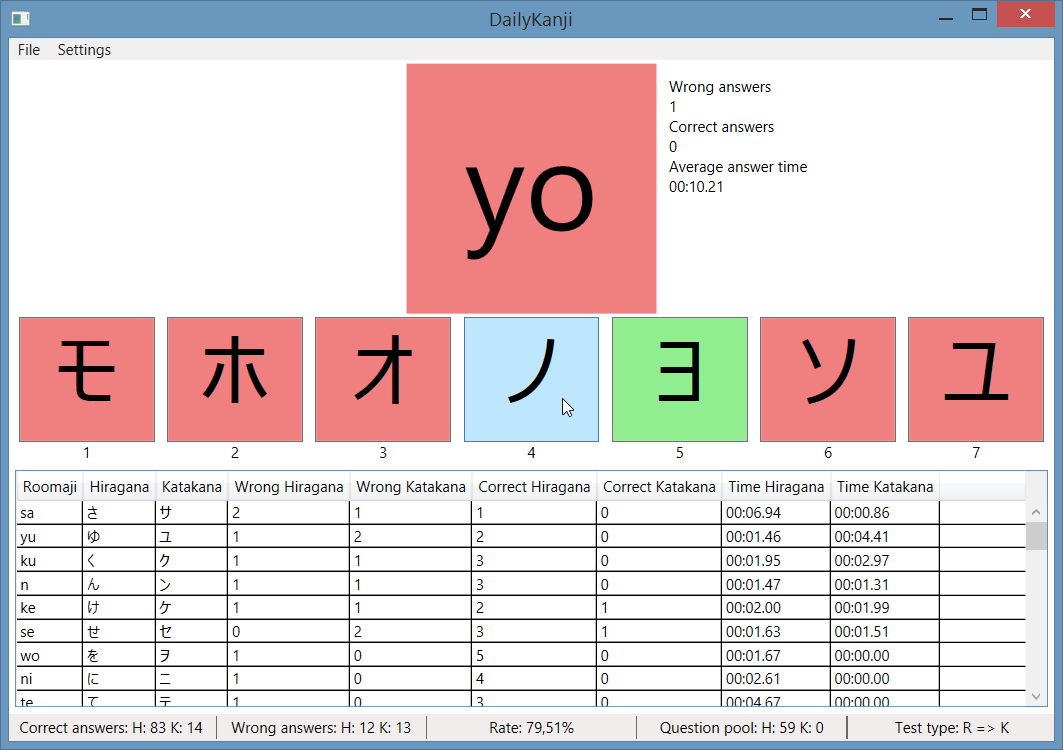
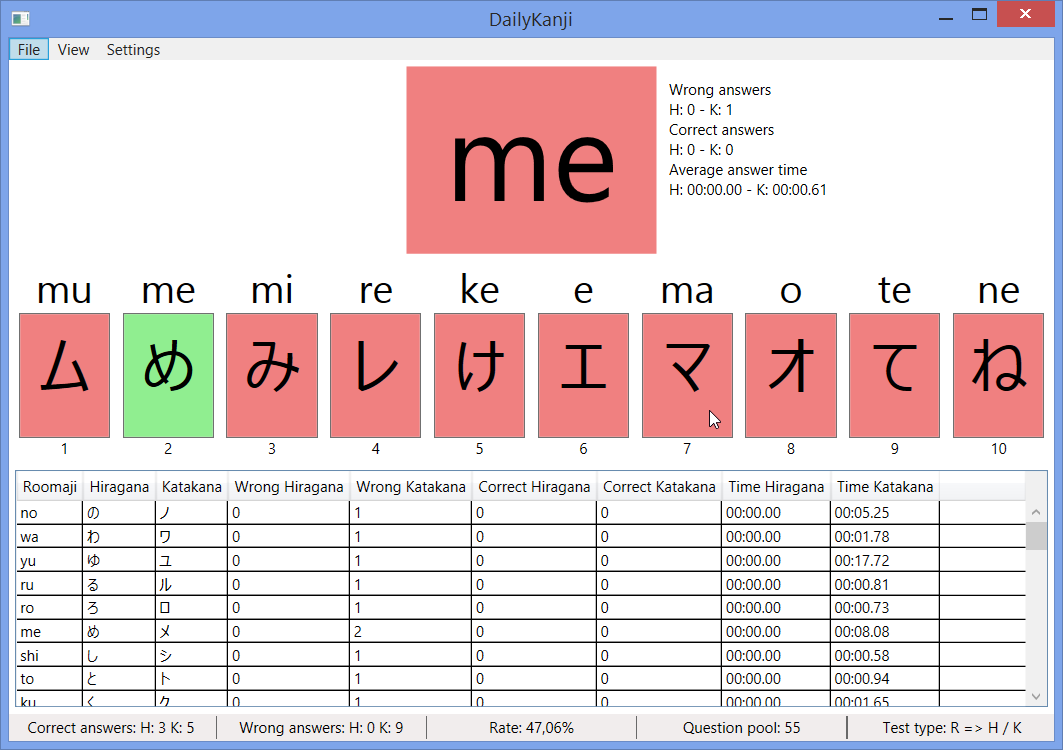
Add menu entry to show/hide hints on wrong answers and update pictures

diff --git a/DailyKanji/Mvvm/View/MainWindow.xaml b/DailyKanji/Mvvm/View/MainWindow.xaml
@@ -64,6 +64,12 @@
 
             </MenuItem>
 
+            <MenuItem Header="View">
+
+                <MenuItem Command="{Binding Path=ChangeHintVisibility}" Header="Show hints on wrong answers" IsChecked="{Binding Path=Model.ShowHints}" />
+
+            </MenuItem>
+
             <MenuItem Header="Settings">
 
                 <MenuItem Header="Test type">

diff --git a/DailyKanji/Mvvm/ViewModel/MainViewModelCommands.cs b/DailyKanji/Mvvm/ViewModel/MainViewModelCommands.cs
@@ -15,43 +15,50 @@ namespace DailyKanji.Mvvm.ViewModel
         public ICommand CloseProgram
             => new CommandHelper(() => _mainWindow.Close());
 
+        public ICommand ChangeHintVisibility
+            => new CommandHelper(() => Model.ShowHints = !Model.ShowHints);
+
         public ICommand ChangeTestType
-            => new CommandHelper((testType) =>
-            {
-                Model.MainTestType = testType != null ? (TestType)Convert.ToInt32(testType) : TestType.HiraganaOrKatakanaToRoomaji;
-                CreateNewTest();
-            });
+            => new CommandHelper((testType)
+                =>
+                {
+                    Model.MainTestType = testType != null ? (TestType)Convert.ToInt32(testType) : TestType.HiraganaOrKatakanaToRoomaji;
+                    CreateNewTest();
+                });
 
         public ICommand ChangeErrorTimeout
             => new CommandHelper((timeout) => Model.ErrorTimeout = Convert.ToInt32(timeout));
 
         public ICommand ChangeAnswerCount
-            => new CommandHelper((value) =>
-            {
-                Model.MaximumAnswer = Convert.ToByte(value);
-                ChooseNewPossibleAnswers();
-                BuildAnswerButtons();
-            });
+            => new CommandHelper((value)
+                =>
+                {
+                    Model.MaximumAnswer = Convert.ToByte(value);
+                    ChooseNewPossibleAnswers();
+                    BuildAnswerButtons();
+                });
 
         public ICommand ChangeAnswerMode
-            => new CommandHelper(() =>
-            {
-                ChooseNewPossibleAnswers();
-                BuildAnswerButtons();
-            });
+            => new CommandHelper(()
+                =>
+                {
+                    ChooseNewPossibleAnswers();
+                    BuildAnswerButtons();
+                });
 
         public ICommand AnswerTest
             => new CommandHelper((parameter) => CheckAnswer(parameter as TestBaseModel));
 
         public ICommand AnswerNumber
-            => new CommandHelper((parameter) =>
-            {
-                if(!int.TryParse(parameter.ToString(), out var answerNumber))
+            => new CommandHelper((parameter)
+                =>
                 {
-                    return;
-                }
+                    if(!int.TryParse(parameter.ToString(), out var answerNumber))
+                    {
+                        return;
+                    }
 
-                CheckAnswer(Model.PossibleAnswers.ElementAtOrDefault(answerNumber - 1));
-            });
+                    CheckAnswer(Model.PossibleAnswers.ElementAtOrDefault(answerNumber - 1));
+                });
     }
 }

diff --git a/DailyKanji/Mvvm/ViewModel/MainViewModel.cs b/DailyKanji/Mvvm/ViewModel/MainViewModel.cs
@@ -18,7 +18,6 @@ namespace DailyKanji.Mvvm.ViewModel
     // TODO: Add test type for "Hiragana or Katakana to Katakana or Hiragana"
     // TODO: Add test type for all -> "Hiragana, Katakana or Roomaji to Hiragana, Katakana or Roomaji"
     // TODO: Add menu entry to reset the statistics
-    // TODO: Add menu entry to deactivate hints
     // TODO: Add new answers sub-menu (show current answer inside menu entry with shortcut)
     // TODO: Recalculate buttons (button width), when window is resized
     // TODO: Visible timer in 0.1 second (can be deactivated via menu)
@@ -385,7 +384,10 @@ namespace DailyKanji.Mvvm.ViewModel
                                             ? Colors.LightGreen
                                             : Colors.LightCoral);
 
-                Model.HintTextColor[answerNumber] = new SolidColorBrush(Colors.Black);
+                if(Model.ShowHints)
+                {
+                    Model.HintTextColor[answerNumber] = new SolidColorBrush(Colors.Black);
+                }
             }
         }
 
@@ -399,7 +401,7 @@ namespace DailyKanji.Mvvm.ViewModel
             for(var answerNumber = 0; answerNumber < 10; answerNumber++)
             {
                 Model.AnswerButtonColor[answerNumber] = new SolidColorBrush(Colors.Transparent);
-                Model.HintTextColor[answerNumber] = new SolidColorBrush(Colors.Transparent);
+                Model.HintTextColor[answerNumber]     = new SolidColorBrush(Colors.Transparent);
             }
         }
 

diff --git a/DailyKanji/Mvvm/Model/MainModel.cs b/DailyKanji/Mvvm/Model/MainModel.cs
@@ -160,6 +160,19 @@ namespace DailyKanji.Mvvm.Model
             }
         }
 
+        /// <summary>
+        /// Indicate that hints on wrong answers will be shown
+        /// </summary>
+        public bool ShowHints
+        {
+            get => _showHints;
+            set
+            {
+                _showHints = value;
+                OnPropertyChanged();
+            }
+        }
+
         [JsonIgnore]
         public string WrongAnswerCountString
             => $"H: {AllTestsList.Sum(found => found.WrongHiraganaCount)}"
@@ -399,6 +412,11 @@ namespace DailyKanji.Mvvm.Model
         /// </summary>
         private ICollection<TestBaseModel> _allTestsList;
 
+        /// <summary>
+        /// Backing-field for <see cref="ShowHints"/>
+        /// </summary>
+        private bool _showHints;
+
         #endregion Private Backing-Fields
 
         #region Public Constructors
@@ -406,8 +424,11 @@ namespace DailyKanji.Mvvm.Model
         public MainModel()
         {
             MainTestType   = TestType.HiraganaOrKatakanaToRoomaji;
-            ErrorTimeout   = 1_500;
+
             MaximumAnswer  = 5;
+            ErrorTimeout   = 3_000;
+
+            ShowHints      = true;
             SimilarAnswers = true;
         }
 

diff --git a/readme.md b/readme.md
@@ -11,7 +11,7 @@ in development
   * Roomaji to Hiragana or Katakana, Only Roomaji to Hiragana, Only Roomaji to Katakana
   * Only Hiragana to Katakana, Only Katakana to Hiragana
 * Highlight wrong and correct answers, when answer was wrong
-* Show hint (based on selected test type) of all possible answers, when answer was wrong
+* Show hint of all possible answers, when answer was wrong (can be deactivated via menu)
 * Count answer time (separates counter for Hiragana and Katakana)
 * Can show only similar answers
 * Changeable answer count (from two answers up to ten answers)
@@ -36,7 +36,6 @@ Open a issue ticket or make a pull request
 * Add test type for "Hiragana or Katakana to Katakana or Hiragana"
 * Add test type for all -> "Hiragana, Katakana or Roomaji to Hiragana, Katakana or Roomaji"
 * Add menu entry to reset the statistics
-* Add menu entry to deactivate hints
 * Add new answers sub-menu (show current answer inside menu entry with shortcut)
 * Recalculate buttons (button width), when window is resized
 * Visible timer in 0.1 second (can be deactivated via menu)
